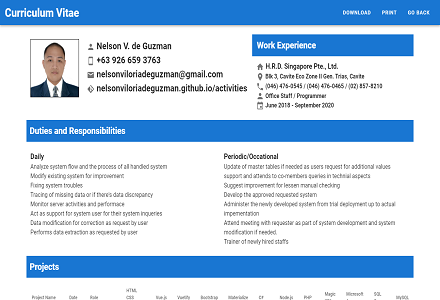
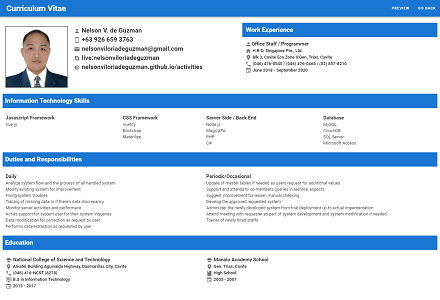
Add files via upload

diff --git a/pages/curriculumvitae/app.js b/pages/curriculumvitae/app.js
@@ -20,6 +20,7 @@ new Vue({
             fullName: 'Nelson V. de Guzman',
             mobileNumber: '+63 926 659 3763',
             emailAddress: 'nelsonviloriadeguzman@gmail.com',
+            skypeName: 'live:nelsonviloriadeguzman',
             github: 'nelsonviloriadeguzman.github.io/activities',
             imagePath: 'img/defaultImage.png'
           },
@@ -164,7 +165,7 @@ new Vue({
           window.location.href = '../../index.html'
         },
         
-        printPDF(PrintOrDownload){
+        downloadOrPreviewPDF(downloadOrPreview){
 
           var dd = {
             content: [
@@ -175,7 +176,7 @@ new Vue({
                     layout: 'noBorders',
                 table: {
                     widths:['15%','45%','40%'],
-                  body: [[	{text:'img/defaultImage.png'},
+                  body: [[	{text:''},
                           {
                               style: 'infoStyle',
                                     layout: 'noBorders',
@@ -184,6 +185,7 @@ new Vue({
                                   body: [[{ text: `${this.shortProfile.fullName}
                                                   ${this.shortProfile.mobileNumber}
                                                   ${this.shortProfile.emailAddress}
+                                                  ${this.shortProfile.skypeName}
                                                   ${this.shortProfile.github}`}]]
                                     },
                                   
@@ -194,12 +196,45 @@ new Vue({
                                     widths:['*'],
                                   body: [[{ text: 'Work Experience', style: 'headerStyle',}],
                                           [{ text: '\nOffice Staff / Programmer', style:"miniTitleStyle",}],
-                                          [{ text: 'H.R.D. Singapore Pte., Ltd.\nBlk 3, Cavite Eco Zone II Gen. Trias, Cavite\n(046) 476-0545 / (046) 476-0465 / (02) 857-8210\nJune 2018 - September 2020\n\n'}]
+                                          [{ text: 'H.R.D. Singapore Pte., Ltd.\nBlk 3, Cavite Eco Zone II Gen. Trias, Cavite\n(046) 476-0545 / (046) 476-0465 / (02) 857-8210\nJune 2018 - September 2020\n\n',style: 'defaultTextStyle'}]
                                       ]
                                     },
                                   
                                 }
                               ]]
+                },
+                  
+                },
+
+              //INFORMATION TECHNOLOGY SKILLS
+                {
+                  layout: 'noBorders',
+                  style: 'headerStyle',
+                table: {
+                    widths:['*'],
+                  body: [[{ text: 'Information Technology Skills',}]]
+                },
+                  
+                },
+                {
+                    layout: 'noBorders',
+                table: {
+                    widths:['*','*','*','*'],
+                  body: [[{ text: '\nJavascript Framework ', style:"miniTitleStyle"},
+                          { text: '\nCSS Framework ', style:"miniTitleStyle"},
+                          { text: '\nServer Side / Back End', style:"miniTitleStyle"},
+                          { text: '\nDatabase', style:"miniTitleStyle"},
+                          ],
+                          
+                          [{ text: "Vue.js\n\n", style: 'defaultTextStyle'},
+                          { text: 'Vuetify\nBootstrap\nMaterialize\n\n', style: 'defaultTextStyle'},
+                          { text: 'Node.js\nMagicXPA\nPHP\nc#\n\n', style: 'defaultTextStyle'},
+                          { text: 'MySQL\nCouchDB\nSQL Server\nMS Access\n\n', style: 'defaultTextStyle'},
+                          ],
+                          
+                          [{},{},{},{}]
+                          ],
+                          
                 },
                   
                 },
@@ -219,11 +254,11 @@ new Vue({
                 table: {
                     widths:['*','*'],
                   body: [[{ text: '\nDaily', style:"miniTitleStyle"},
-                          { text: '\nPeriodic/Occational', style:"miniTitleStyle"},
+                          { text: '\nPeriodic/Occasional', style:"miniTitleStyle"},
                           ],
                           
-                          [{ text: "Analyze system flow and the process of all handled system\nModify existing system for improvement\nFixing system troubles\nTracing of missing data or if there's data discrepancy\nMonitor server activities and performace\nAct as support for system user for their system inqueries\nData modification for correction as request by user\nPerforms data extraction as requested by user\n\n"},
-                          { text: 'Update of master tables if needed as users request\nSupport and attends to co-members queries in technial aspects\nSuggest improvement for lessen manual checking\n Develop the approved requested system\nAdminister the newly developed system from trial deployment up to actual impementation\nAttend meeting with requester as part of system development and system modification if needed\nTrainer of newly hired staffs\n\n'},
+                          [{ text: "Analyze system flow and the process of all handled system\nModify existing system for improvement\nFixing system troubles\nTracing of missing data or if there's data discrepancy\nMonitor server activities and performace\nAct as support for system user for their system inqueries\nData modification for correction as request by user\nPerforms data extraction as requested by user\n\n", style: 'defaultTextStyle'},
+                          { text: 'Update of master tables if needed as users request\nSupport and attends to co-members queries in technial aspects\nSuggest improvement for lessen manual checking\n Develop the approved requested system\nAdminister the newly developed system from trial deployment up to actual impementation\nAttend meeting with requester as part of system development and system modification if needed\nTrainer of newly hired staffs\n\n', style: 'defaultTextStyle'},
                           ],
                           
                           [{},{}]
@@ -249,8 +284,8 @@ new Vue({
                   body: [[{ text: '\nNational College of Science and Technology', style:"miniTitleStyle"},
                           { text: '\nManalo Academy School', style:"miniTitleStyle"},
                           ],
-                          [{ text: 'Amafel Building Aguinaldo Highway, Dasmariñas City, Cavite \n (046) 416-NCST (6278) \n B.S in Information Technology \n 2013 - 2017'},
-                          { text: 'Gen. Trias, Cavite \n High School \n 2003 - 2007'},
+                          [{ text: 'Amafel Building Aguinaldo Highway, Dasmariñas City, Cavite \n (046) 416-NCST (6278) \n B.S in Information Technology \n 2013 - 2017', style: 'defaultTextStyle'},
+                          { text: 'Gen. Trias, Cavite \n High School \n 2003 - 2007', style: 'defaultTextStyle'},
                           ],
                           [{},{}]
                           ]
@@ -260,19 +295,23 @@ new Vue({
                 
             ],
             styles: {
+              defaultTextStyle:{
+                fontSize: 10,
+              },
               headerStyle: {
                   borderColor: 'white',
                   fillColor: '#1976D2',
                   color: 'white',
-                fontSize: 14,
+                fontSize: 12,
                 bold: true
               },
               miniTitleStyle: {
-                bold: true
+                bold: true,
+                fontSize: 11,
               },
               infoStyle: {
                   bold: true,
-                  fontSize: 15,
+                  fontSize: 13,
               }
               
             },
@@ -280,7 +319,7 @@ new Vue({
             
           }
 
-          PrintOrDownload === 1 ? createPdf(dd).download('CV - Nelson V. de Guzman') : createPdf(dd).open()
+          downloadOrPreview === 1 ? createPdf(dd).download('CV - Nelson V. de Guzman') : createPdf(dd).open()
       
         }
       }

diff --git a/pages/curriculumvitae/curriculumvitae.html b/pages/curriculumvitae/curriculumvitae.html
@@ -24,8 +24,8 @@
           <v-app-bar color="primary" dark>
             <v-toolbar-title><h2>Curriculum Vitae</h2></v-toolbar-title>
             <v-spacer></v-spacer>
-            <!-- <v-btn @click="printPDF(1)" color="primary" elevation="0">Download</v-btn>
-            <v-btn @click="printPDF(2)" color="primary" elevation="0">Print</v-btn> -->
+            <!-- <v-btn @click="downloadOrPreviewPDF(1)" color="primary" elevation="0">Download</v-btn> -->
+            <v-btn @click="downloadOrPreviewPDF(2)" color="primary" elevation="0">Preview</v-btn>
             <v-btn @click="goBack" color="primary" elevation="0">Go Back</v-btn>
           </v-app-bar>
         <v-container>
@@ -41,6 +41,7 @@
                     <h2><v-icon>mdi-account</v-icon> {{shortProfile.fullName}}</h2>
                     <h2><v-icon>mdi-cellphone</v-icon> {{shortProfile.mobileNumber}}</h2>
                     <h2><v-icon>mdi-email</v-icon> {{shortProfile.emailAddress}}</h2>
+                    <h2><v-icon>mdi-skype</v-icon> {{shortProfile.skypeName}}</h2>
                     <h2><v-icon>mdi-git</v-icon> {{shortProfile.github}}</h2>
                   </v-col>
                 </v-row>
@@ -57,6 +58,47 @@
                 <h4><v-icon>mdi-map-marker</v-icon> Blk 3, Cavite Eco Zone II Gen. Trias, Cavite</h4>
                 <h4><v-icon>mdi-phone</v-icon> (046) 476-0545 / (046) 476-0465 / (02) 857-8210</h4>
                 <h4><v-icon>mdi-calendar</v-icon> June 2018 - September 2020</h4>
+                <br>
+              </v-col>
+            </v-row>
+
+            <v-row :style="rowHeaderStyle">
+              <h2 :style="h2Style">Information Technology Skills</h2>
+            </v-row>
+
+            <v-row>
+              <v-col md="3">
+                <br>
+                <h3>Javascript Framework</h3>
+                Vue.js<br>
+                <br>
+              </v-col>
+              <v-col md="3">
+                <br>
+                <h3>CSS Framework</h3>
+                Vuetify<br>
+                Bootstrap<br>
+                Materilize<br>
+                <br>
+              </v-col>
+
+              <v-col md="3">
+                <br>
+                <h3>Server Side / Back End</h3>
+                 Node.js<br>
+                 MagicXPA<br>
+                 PHP<br>
+                 C#<br>
+                <br>
+              </v-col>
+
+              <v-col md="3">
+                <br>
+                <h3>Database</h3>
+                MySQL<br>
+                CouchDB<br>
+                SQL Server<br>
+                Microsoft Access<br>
                 <br>
               </v-col>
             </v-row>
@@ -81,7 +123,7 @@
               </v-col>
               <v-col md="6">
                 <br>
-                <h3>Periodic/Occational</h3>
+                <h3>Periodic/Occasional</h3>
                 Update of master tables if needed as users request for additional values<br>
                 Support and attends to co-members queries in technial aspects<br>
                 Suggest improvement for lessen manual checking<br>
@@ -89,6 +131,30 @@
                 Administer the newly developed system from trial deployment up to actual impementation<br>
                 Attend meeting with requester as part of system development and system modification if needed.<br>
                 Trainer of newly hired staffs<br>
+                <br>
+              </v-col>
+            </v-row>
+
+            <v-row :style="rowHeaderStyle">
+              <h2 :style="h2Style">Education</h2>
+            </v-row>
+
+            <v-row>
+              <v-col md="6">
+                <br>
+                <h3><v-icon>mdi-school</v-icon> National College of Science and Technology</h3>
+                <h4><v-icon>mdi-map-marker</v-icon> Amafel Building Aguinaldo Highway, Dasmariñas City, Cavite</h4>
+                <h4><v-icon>mdi-phone</v-icon> (046) 416-NCST (6278)</h4>
+                <h4><v-icon>mdi-monitor-dashboard</v-icon> B.S in Information Technology</h4>
+                <h4><v-icon>mdi-calendar</v-icon> 2013 - 2017</h4>
+                <br>
+              </v-col>
+              <v-col md="6">
+                <br>
+                <h3><v-icon>mdi-school</v-icon> Manalo Academy School</h3>
+                <h4><v-icon>mdi-map-marker</v-icon> Gen. Trias, Cavite</h4>
+                <h4><v-icon>mdi-book</v-icon> High School</h4>
+                <h4><v-icon>mdi-calendar</v-icon> 2003 - 2007</h4>
                 <br>
               </v-col>
             </v-row>
@@ -173,31 +239,7 @@
                 </template>
               </v-simple-table>
             </v-row>
-            <br>
-            <br>
-            <v-row :style="rowHeaderStyle">
-              <h2 :style="h2Style">Education</h2>
-            </v-row>
-
-            <v-row>
-              <v-col md="6">
-                <br>
-                <h3><v-icon>mdi-school</v-icon> National College of Science and Technology</h3>
-                <h4><v-icon>mdi-map-marker</v-icon> Amafel Building Aguinaldo Highway, Dasmariñas City, Cavite</h4>
-                <h4><v-icon>mdi-phone</v-icon> (046) 416-NCST (6278)</h4>
-                <h4><v-icon>mdi-monitor-dashboard</v-icon> B.S in Information Technology</h4>
-                <h4><v-icon>mdi-calendar</v-icon> 2013 - 2017</h4>
-                <br>
-              </v-col>
-              <v-col md="6">
-                <br>
-                <h3><v-icon>mdi-school</v-icon> Manalo Academy School</h3>
-                <h4><v-icon>mdi-map-marker</v-icon> Gen. Trias, Cavite</h4>
-                <h4><v-icon>mdi-book</v-icon> High School</h4>
-                <h4><v-icon>mdi-calendar</v-icon> 2003 - 2007</h4>
-                <br>
-              </v-col>
-            </v-row>
+           
           </template>
 
         </v-container>
